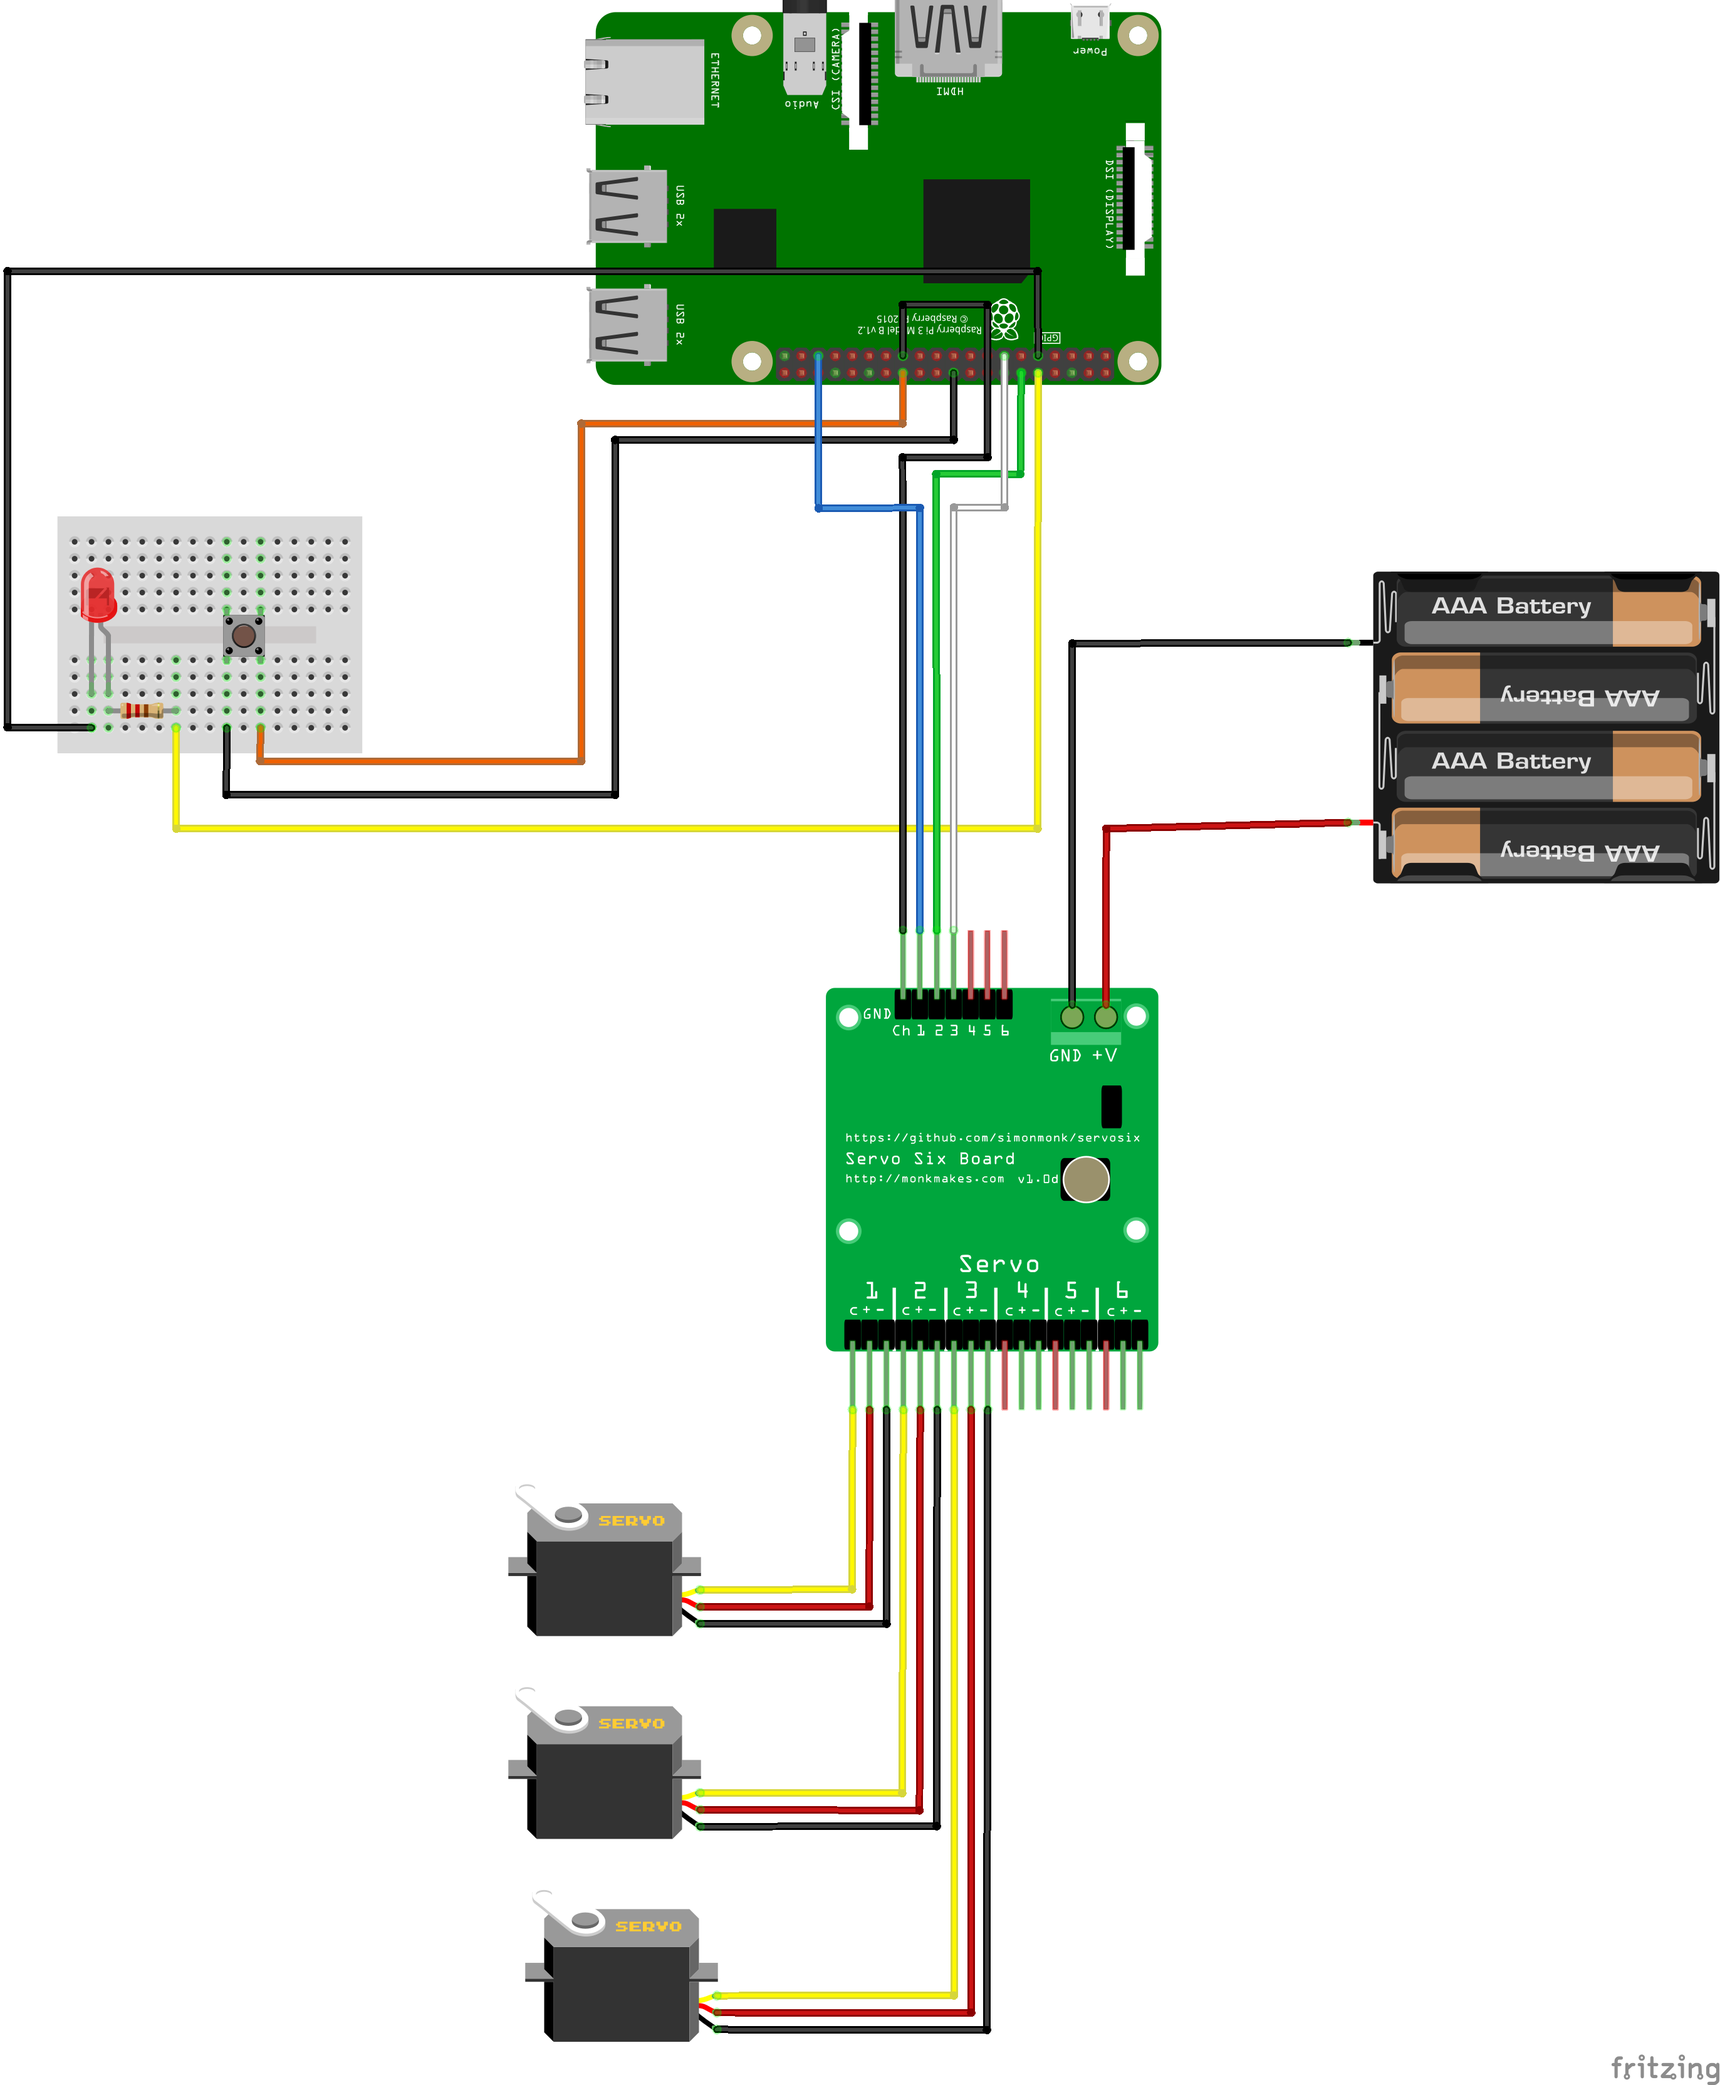
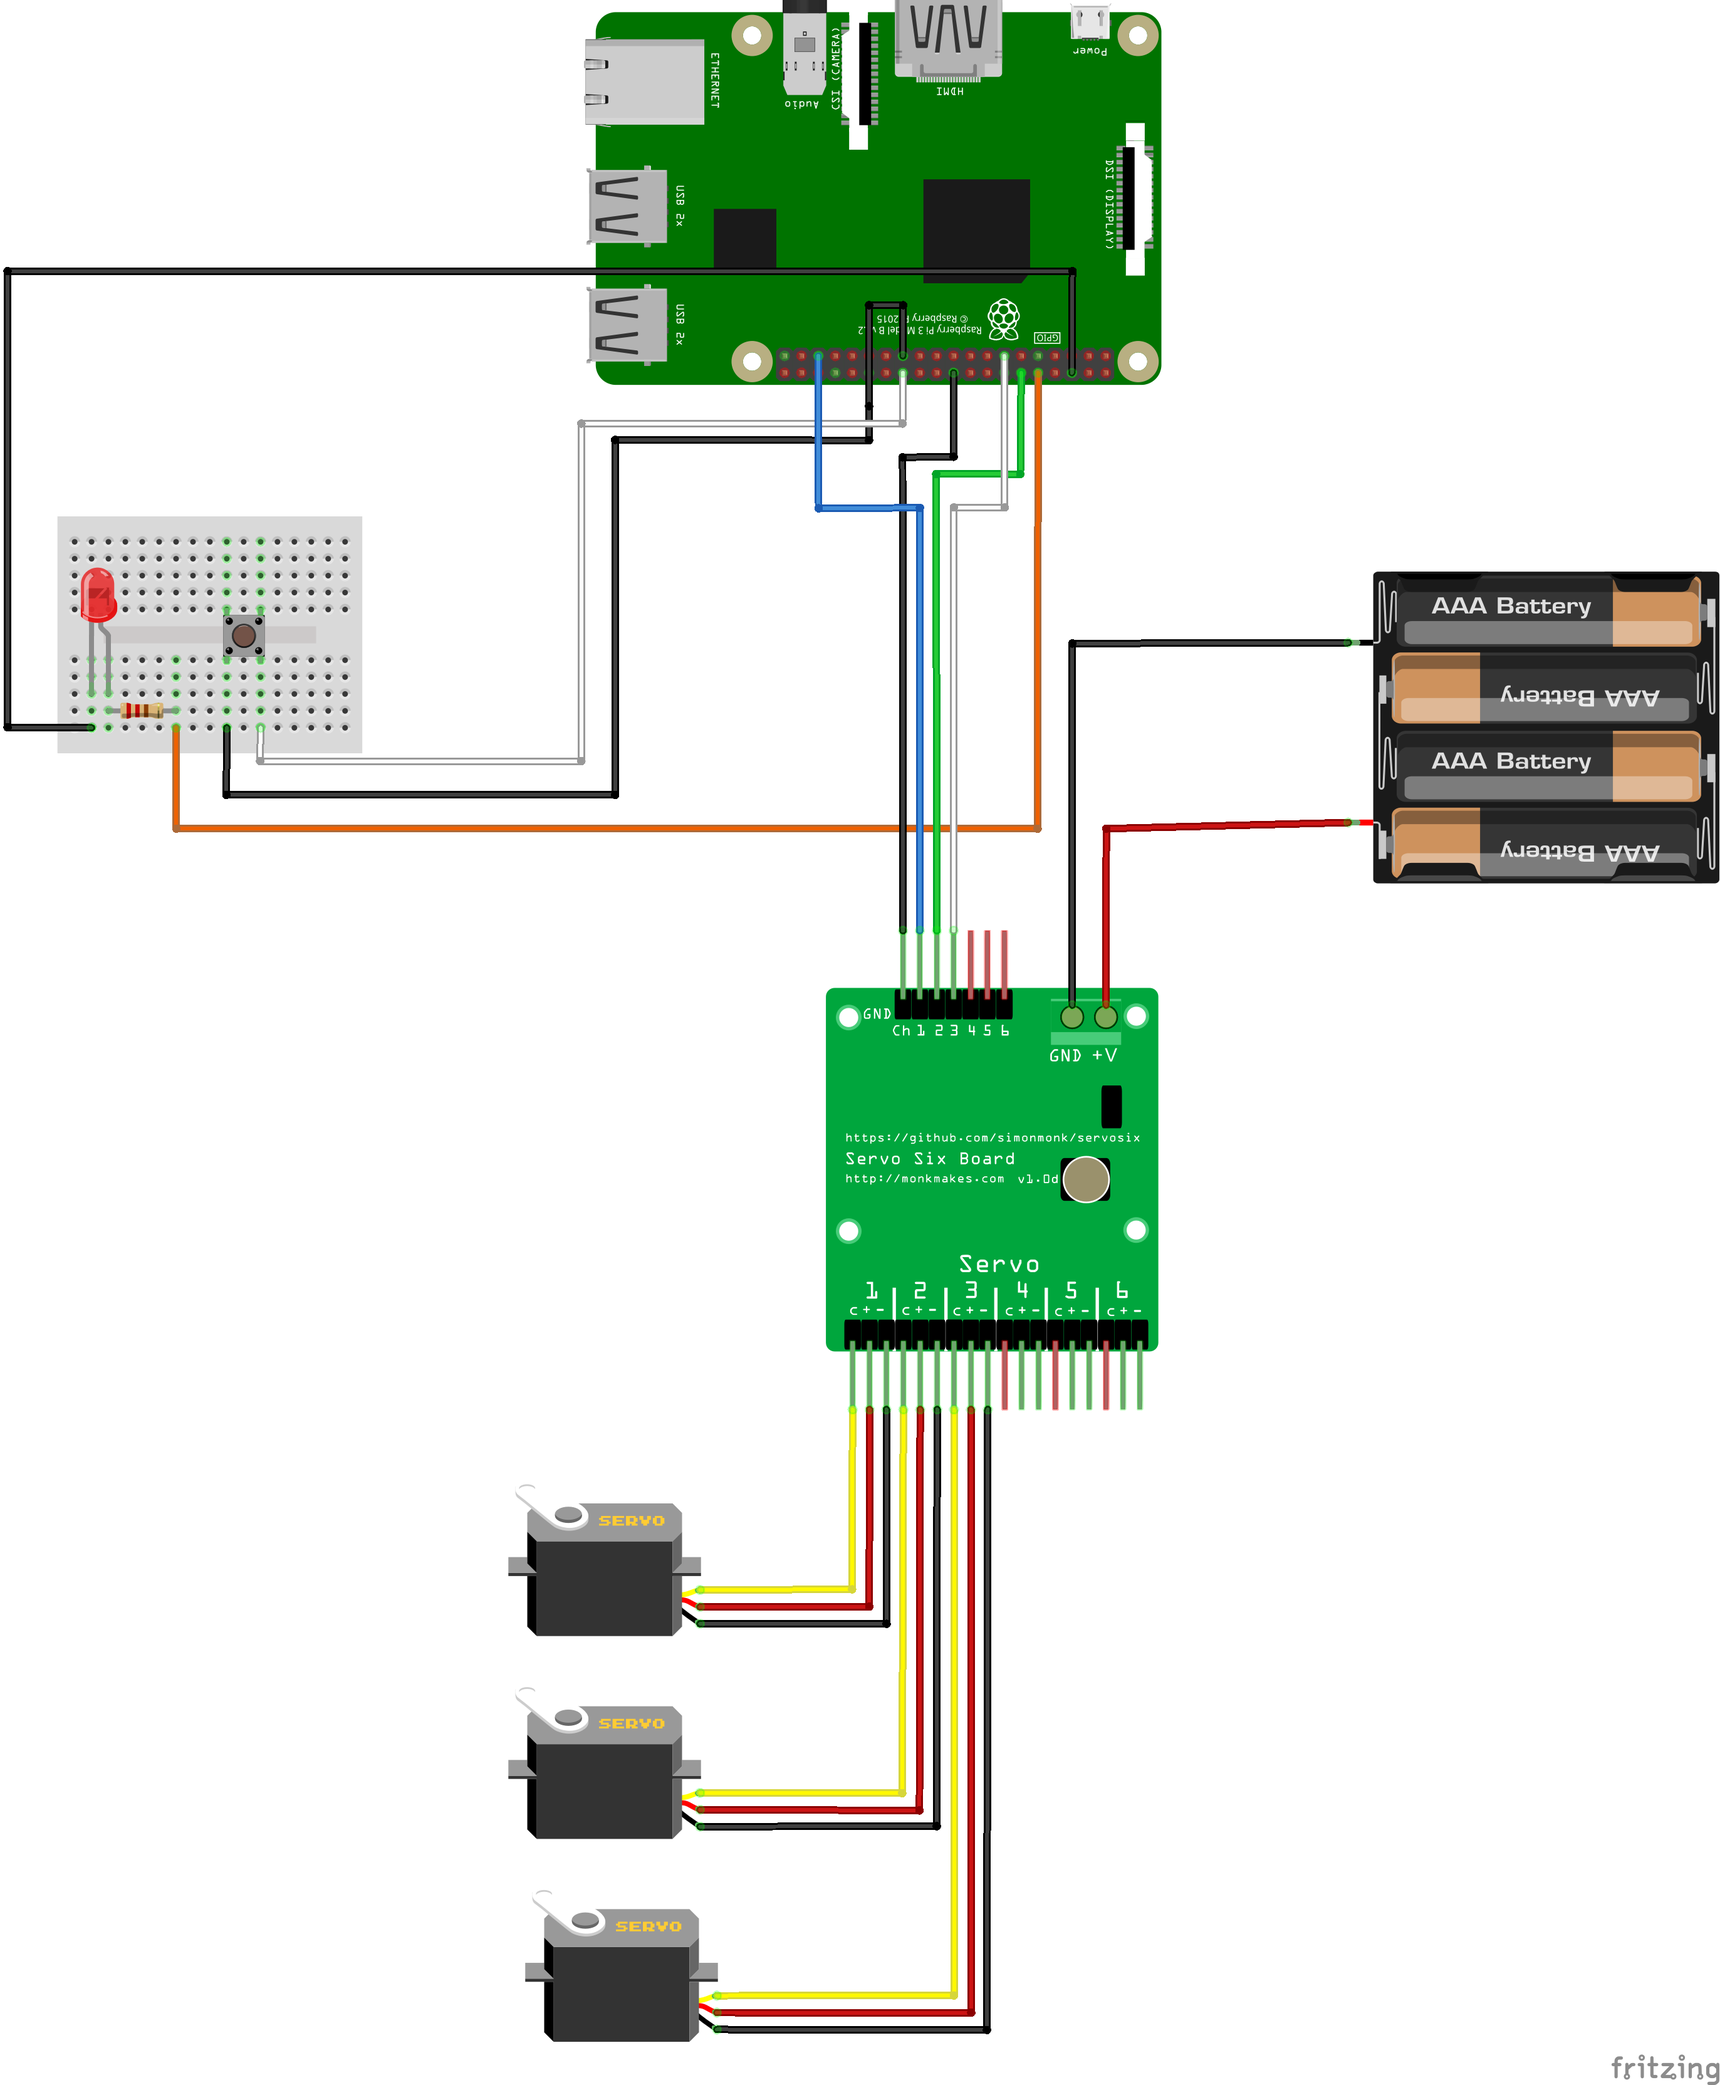
Fixed Servo Board Ground and Button Wire Colour

Changed region(s): [[0.3406, 0.1238, 0.6503, 0.4025], [0.0929, 0.2167, 0.5264, 0.4025]]

diff --git a/workshop/08-build-circuit-servos.md b/workshop/08-build-circuit-servos.md
@@ -26,7 +26,7 @@
 
 | Servo Driver Board Pin | Raspberry Pi Pin |
 | - | - |
-| GND | 25 |
+| GND | 20 |
 | 1   | 35 |
 | 2   | 12 |
 | 3   | 13 |
